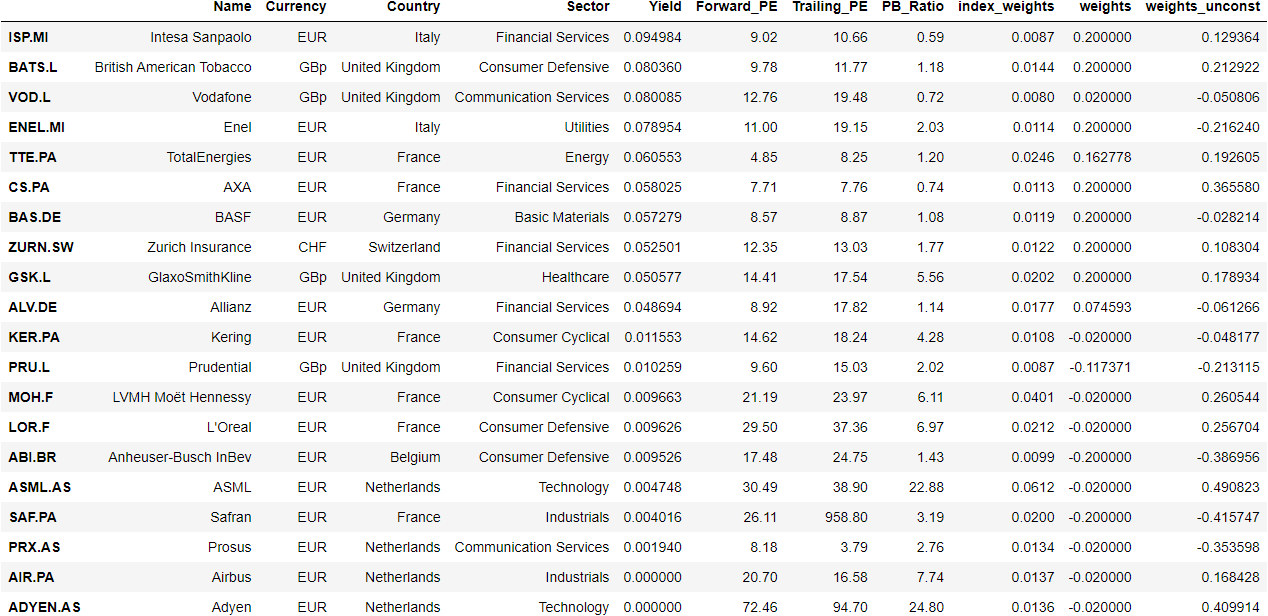
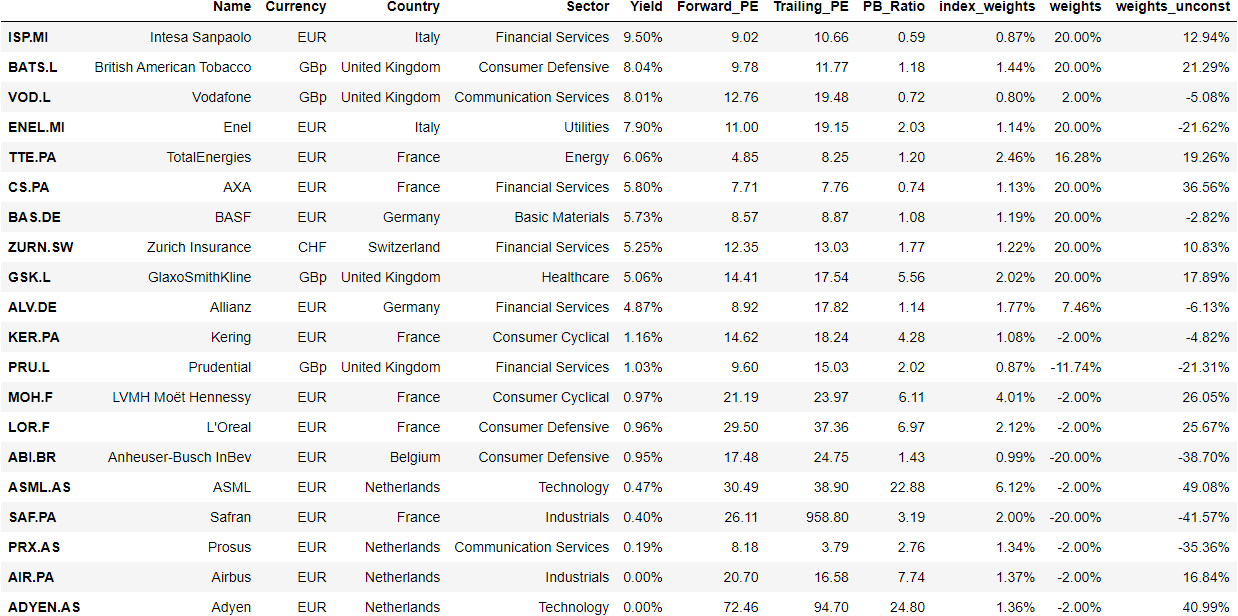
slight modifications

diff --git a/calculations.py b/calculations.py
@@ -128,7 +128,14 @@ MSRP_unconst = minimize(sharpe, x0, method='SLSQP', args=(ER,S), constraints = c
 #complete data set of selected stocks with calculated constrained MSRP values & export for presentation
 stocks_invest = stocks_invest.assign(weights = MSRP_const.x)
 stocks_invest = stocks_invest.assign(weights_unconst = MSRP_unconst.x)
-dfi.export(stocks_invest, "plots/selected_portfolio_characteristics.png")
+
+stocks_invest_export = stocks_invest
+stocks_invest_export["Yield"] = stocks_invest_export["Yield"].map('{:,.2%}'.format)
+stocks_invest_export["weights"] = stocks_invest_export["weights"].map('{:,.2%}'.format)
+stocks_invest_export["index_weights"] = stocks_invest_export["index_weights"].map('{:,.2%}'.format)
+stocks_invest_export["weights_unconst"] = stocks_invest_export["weights_unconst"].map('{:,.2%}'.format)
+
+dfi.export(stocks_invest_export, "plots/selected_portfolio_characteristics.png")
 
 #---------------------------------------------------------------------------
                   #Visualize efficient Frontier
